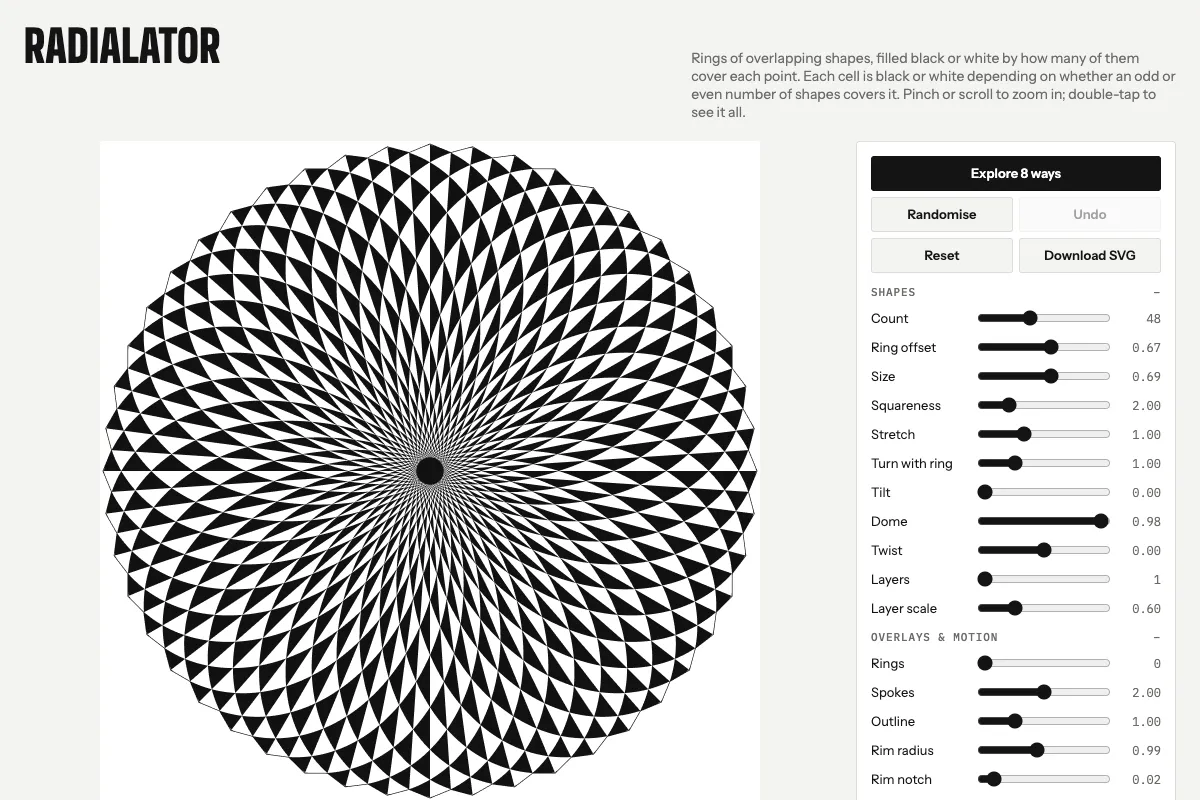
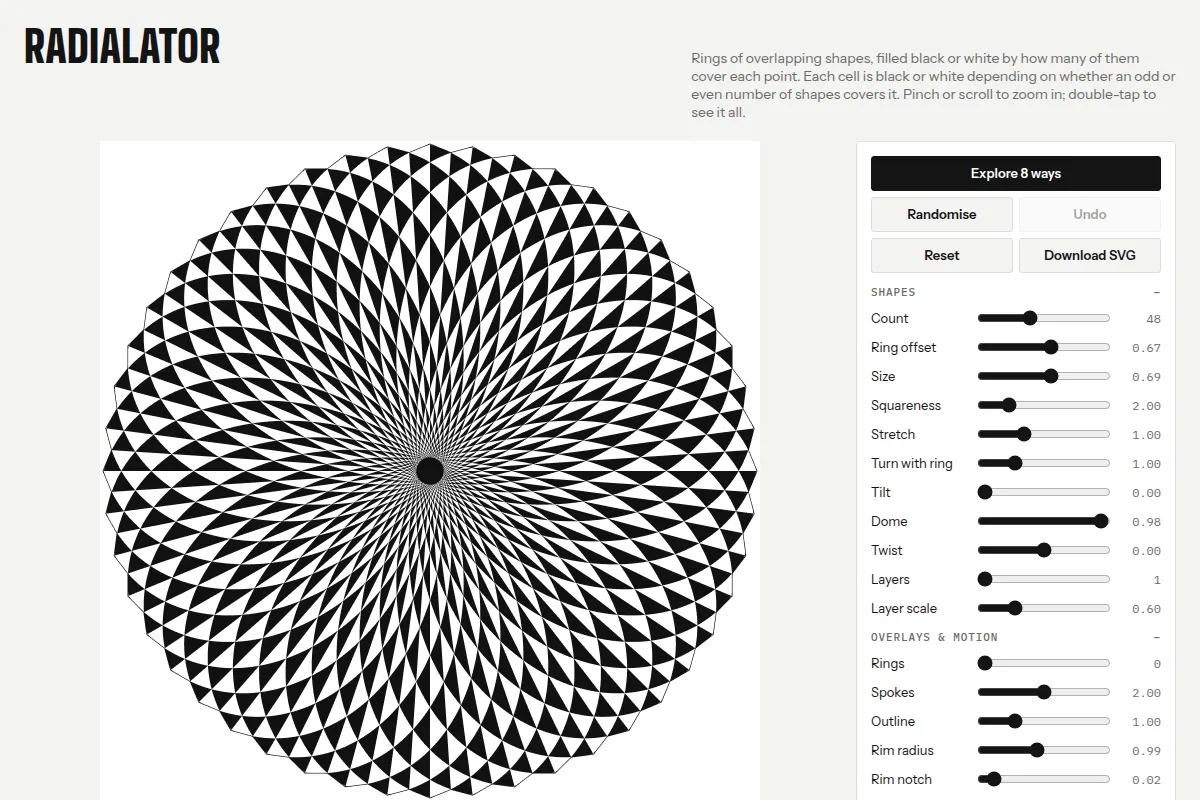
deploy: Jermolene/blog@e66649e83a537464c238b642009fd84891bfa148

diff --git a/toys/radialator/index.html b/toys/radialator/index.html
@@ -115,6 +115,9 @@ input[type=checkbox]{accent-color:var(--accent);margin:0}
       <div class="sel"><label for="invert">Colours</label><select id="invert"><option value="0">Odd = ink</option><option value="1">Odd = paper</option></select></div>
       <div class="sel"><label for="palette">Palette</label><select id="palette"></select></div>
     </div></details>
+    <details data-g="D"><summary class="lbl">Dots</summary><div class="ctrls" id="ctrlsD">
+      <div class="sel"><label for="dots">Dot layout</label><select id="dots"><option value="0">Off: solid</option><option value="1">Grid</option><option value="2">Hex</option><option value="3">Rings</option></select></div>
+    </div></details>
     <details><summary class="lbl">Display</summary><div class="ctrls">
       <label class="tick" for="showFps"><input type="checkbox" id="showFps"> Show frame rate</label>
     </div></details>
@@ -142,6 +145,10 @@ const SPEC=[
  {k:'notch',l:'Rim notch',min:0,max:.3,step:.0005,d:.0242,g:'B'},
  {k:'hub',l:'Hub',min:0,max:.3,step:.001,d:.042,g:'B'},
  {k:'speed',l:'Spin speed',min:-1,max:1,step:.01,d:0,g:'B'},
+ {k:'dotN',l:'Dots across',min:16,max:240,step:1,d:90,g:'D'},
+ {k:'dotSize',l:'Dot size',min:.3,max:1.1,step:.01,d:.9,g:'D'},
+ {k:'light',l:'Light',min:0,max:1,step:.01,d:0,g:'D'},
+ {k:'lightAng',l:'Light from',min:0,max:6.2832,step:.01,d:2.36,g:'D'},
 ];
 const PALETTES=[
  ['Ink on white','#111111','#ffffff'],
@@ -152,10 +159,10 @@ const PALETTES=[
  ['Sea and coral','#0f5257','#f6a38f'],
  ['Violet','#3a1a6b','#d9f0e4'],
 ];
-const DEFAULTS=Object.fromEntries(SPEC.map(s=>[s.k,s.d]));DEFAULTS.clip=3;DEFAULTS.invert=1;DEFAULTS.palette=0;
-// panel groups: sliders carry theirs in SPEC; the three selects make up group C
-const GROUPS={A:'Shapes',B:'Overlays & motion',C:'Colour & clip'},SELECTS=['clip','invert','palette'];
-const groupKeys=g=>g==='C'?SELECTS:SPEC.filter(s=>s.g===g).map(s=>s.k);
+const DEFAULTS=Object.fromEntries(SPEC.map(s=>[s.k,s.d]));DEFAULTS.clip=3;DEFAULTS.invert=1;DEFAULTS.palette=0;DEFAULTS.dots=0;
+// panel groups: sliders carry theirs in SPEC; the selects carry theirs here
+const GROUPS={A:'Shapes',B:'Overlays & motion',C:'Colour & clip',D:'Dots'},SELG={clip:'C',invert:'C',palette:'C',dots:'D'},SELECTS=Object.keys(SELG);
+const groupKeys=g=>[...SPEC.filter(s=>s.g===g).map(s=>s.k),...SELECTS.filter(k=>SELG[k]===g)];
 const allowed=new Set(Object.keys(GROUPS));
 let P={...DEFAULTS};const history=[];
 
@@ -165,6 +172,7 @@ const gl=glc.getContext('webgl',{preserveDrawingBuffer:true,antialias:false});
 const FS=`precision highp float;
 uniform vec2 uRes;uniform float uHub,uInv,uWarp,uRim,uNotch,uPx,uLine,uN,uD,uR,uP,uAsp,uSpin,uTilt,uTwist,uRings,uSectors,uLayers,uLS,uPhase,uExtent,uClip;
 uniform vec3 uInk,uPaper;uniform vec2 uPan;uniform float uZoom;
+uniform float uDots,uDotN,uDotSize,uLight,uLightAng;
 mat2 rot(float a){float c=cos(a),s=sin(a);return mat2(c,s,-s,c);}
 float sampleAt(vec2 p){
   vec2 p0=p;float rad0=length(p);
@@ -206,9 +214,30 @@ float sampleAt(vec2 p){
   if(uClip==2.&&rad0>uExtent)return 0.;
   return par;
 }
+// Dots: the nearest dot centre on a grid, a hex lattice, or rings that keep the pattern's N-fold symmetry (dotCentres() in JS matches)
+vec2 dotCentre(vec2 p,float h){
+  if(uDots<1.5)return (floor(p/h)+.5)*h;
+  if(uDots<2.5){vec2 s=vec2(h,h*1.7320508);vec2 a=(floor(p/s)+.5)*s;vec2 b=(floor((p-s*.5)/s)+.5)*s+s*.5;return dot(p-a,p-a)<dot(p-b,p-b)?a:b;}
+  float i=floor(length(p)/h+.5);if(i<.5)return vec2(0.);float rho=i*h;
+  float n=uN*max(1.,floor(6.2831853*rho/(h*uN)+.5));float st=6.2831853/n;float a=floor(atan(p.y,p.x)/st+.5)*st;
+  return rho*vec2(cos(a),sin(a));
+}
+// a dot's ink: the pattern's coverage around its centre, optionally lit like a dome (dotInk() in JS matches)
+float dotInk(vec2 c,float h){
+  float cov=0.;for(int i=-1;i<=1;i++)for(int j=-1;j<=1;j++)cov+=sampleAt(c+vec2(float(i),float(j))*h/3.);cov/=9.;
+  if(uLight>0.){vec2 q=c/uExtent;float z2=1.-dot(q,q);vec3 L=normalize(vec3(cos(uLightAng),sin(uLightAng),1.));
+    float lam=z2>0.?max(dot(vec3(q,sqrt(z2)),L),0.):0.;cov*=mix(1.,.15+.85*lam,uLight);}
+  return cov;
+}
 void main(){
   float m=min(uRes.x,uRes.y)*.5;float k=uExtent*1.0089/m/uZoom;
   vec2 f=gl_FragCoord.xy-uRes*.5;
+  if(uDots>.5){
+    float h=2.*uExtent/uDotN;vec2 w=f*k+uPan;vec2 c=dotCentre(w,h);
+    float r=.5*h*uDotSize*sqrt(dotInk(c,h));
+    float v=r>0.?1.-smoothstep(-.5*k,.5*k,length(w-c)-r):0.;
+    gl_FragColor=vec4(mix(uPaper,uInk,v),1.);return;
+  }
   float v=sampleAt((f+vec2(.125,.375))*k+uPan)+sampleAt((f+vec2(-.375,.125))*k+uPan)
          +sampleAt((f+vec2(-.125,-.375))*k+uPan)+sampleAt((f+vec2(.375,-.125))*k+uPan);
   gl_FragColor=vec4(mix(uPaper,uInk,v*.25),1.);
@@ -222,7 +251,7 @@ function initGL(){
   prog=gl.createProgram();gl.attachShader(prog,vs);gl.attachShader(prog,fs);gl.linkProgram(prog);gl.useProgram(prog);
   const b=gl.createBuffer();gl.bindBuffer(gl.ARRAY_BUFFER,b);gl.bufferData(gl.ARRAY_BUFFER,new Float32Array([-1,-1,3,-1,-1,3]),gl.STATIC_DRAW);
   const loc=gl.getAttribLocation(prog,'p');gl.enableVertexAttribArray(loc);gl.vertexAttribPointer(loc,2,gl.FLOAT,false,0,0);
-  'uRes uHub uInv uWarp uRim uNotch uPx uLine uN uD uR uP uAsp uSpin uTilt uTwist uRings uSectors uLayers uLS uPhase uExtent uClip uInk uPaper uPan uZoom'.split(' ').forEach(n=>U[n]=gl.getUniformLocation(prog,n));
+  'uRes uHub uInv uWarp uRim uNotch uPx uLine uN uD uR uP uAsp uSpin uTilt uTwist uRings uSectors uLayers uLS uPhase uExtent uClip uInk uPaper uPan uZoom uDots uDotN uDotSize uLight uLightAng'.split(' ').forEach(n=>U[n]=gl.getUniformLocation(prog,n));
 }
 function extent(p){
   if(p.clip==3)return p.rim;
@@ -238,6 +267,7 @@ function render(p,target,size,phase=0,view=null){
   gl.uniform1f(U.uN,p.count);gl.uniform1f(U.uD,p.offset);gl.uniform1f(U.uR,p.radius);gl.uniform1f(U.uP,p.shape);
   gl.uniform1f(U.uAsp,p.aspect);gl.uniform1f(U.uSpin,p.spin);gl.uniform1f(U.uTilt,p.tilt);gl.uniform1f(U.uTwist,p.twist);
   gl.uniform1f(U.uRings,p.rings);gl.uniform1f(U.uSectors,2*Math.round(p.spokes*p.count/2));gl.uniform1f(U.uLine,p.outline);gl.uniform1f(U.uRim,p.rim);gl.uniform1f(U.uWarp,p.dome);gl.uniform1f(U.uInv,p.invert);gl.uniform1f(U.uHub,p.hub);gl.uniform1f(U.uNotch,p.notch);gl.uniform1f(U.uPx,extent(p)*1.0089/(size*.5)*(size/1000));gl.uniform1f(U.uLayers,p.layers);gl.uniform1f(U.uLS,p.layerScale);
+  gl.uniform1f(U.uDots,p.dots);gl.uniform1f(U.uDotN,p.dotN);gl.uniform1f(U.uDotSize,p.dotSize);gl.uniform1f(U.uLight,p.light);gl.uniform1f(U.uLightAng,p.lightAng);
   gl.uniform1f(U.uPhase,phase);gl.uniform1f(U.uExtent,extent(p));gl.uniform1f(U.uClip,p.clip);
   const pal=PALETTES[p.palette];gl.uniform3fv(U.uInk,hex(pal[1]));gl.uniform3fv(U.uPaper,hex(pal[2]));
   gl.drawArrays(gl.TRIANGLES,0,3);
@@ -272,8 +302,9 @@ PALETTES.forEach((p,i)=>{const o=document.createElement('option');o.value=i;o.te
 $('clip').addEventListener('change',e=>{push();P.clip=+e.target.value;changed()});
 $('invert').addEventListener('change',e=>{push();P.invert=+e.target.value;changed()});
 $('palette').addEventListener('change',e=>{push();P.palette=+e.target.value;changed()});
+$('dots').addEventListener('change',e=>{push();P.dots=+e.target.value;changed()});
 function fmt(s){const v=P[s.k];$('o_'+s.k).textContent=s.step>=1?v:(Math.abs(v)>=10?v.toFixed(1):v.toFixed(2))}
-function syncUI(){SPEC.forEach(s=>{$('p_'+s.k).value=P[s.k];fmt(s)});$('clip').value=P.clip;$('invert').value=P.invert;$('palette').value=P.palette;$('undo').disabled=!history.length}
+function syncUI(){SPEC.forEach(s=>{$('p_'+s.k).value=P[s.k];fmt(s)});$('clip').value=P.clip;$('invert').value=P.invert;$('palette').value=P.palette;$('dots').value=P.dots;$('undo').disabled=!history.length}
 let lastPush=0;
 function push(){const now=performance.now();if(now-lastPush<400)return;lastPush=now;history.push({...P});if(history.length>100)history.shift();$('undo').disabled=false}
 
@@ -304,7 +335,7 @@ for(let i=0;i<9;i++){const c=document.createElement('div');c.className='cell';c.
   grid.appendChild(c);cells.push(c)}
 const snap=(s,v)=>{v=Math.min(s.max,Math.max(s.min,v));return s.step>=1?Math.round((v-s.min)/s.step)*s.step+s.min:+v.toFixed(4)};
 function mutate(p,str){
-  const q={...p};const keys=SPEC.filter(s=>s.k!=='speed'&&allowed.has(s.g)),col=allowed.has('C');
+  const q={...p};const keys=SPEC.filter(s=>s.k!=='speed'&&allowed.has(s.g)&&(s.g!=='D'||p.dots)),col=allowed.has('C');
   const n=keys.length?1+Math.floor(Math.random()*3):0;
   for(let j=0;j<n;j++){const s=keys[Math.floor(Math.random()*keys.length)];
     const span=s.max-s.min;let dv=(Math.random()*2-1)*str*span;
@@ -385,7 +416,32 @@ $('reset').addEventListener('click',()=>{lastPush=0;push();P={...DEFAULTS};phase
 $('undo').addEventListener('click',()=>{if(!history.length)return;P=history.pop();syncUI();changed()});
 
 // --- SVG export: same geometry as the shader, as one even-odd path ---
+// Dots: the same centres and ink as the shader's dotCentre()/dotInk(), with coverage read back from a solid render
+function buildDotsSVG(p,ph){
+  const E=extent(p),V=E*1.0089,K=1000/V,f=v=>(v*K).toFixed(2),h=2*E/p.dotN,S=2048,kp=V/(S/2);
+  render({...p,dots:0},null,S,ph);const px=new Uint8Array(S*S*4);gl.readPixels(0,0,S,S,gl.RGBA,gl.UNSIGNED_BYTE,px);
+  const pal=PALETTES[p.palette],ink=hex(pal[1]),paper=hex(pal[2]);
+  let ch=0;for(let c=1;c<3;c++)if(Math.abs(ink[c]-paper[c])>Math.abs(ink[ch]-paper[ch]))ch=c;
+  const at=(x,y)=>{const i=Math.min(S-1,Math.max(0,Math.floor(x/kp+S/2))),j=Math.min(S-1,Math.max(0,Math.floor(y/kp+S/2)));
+    return Math.min(1,Math.max(0,(px[(j*S+i)*4+ch]/255-paper[ch])/(ink[ch]-paper[ch])))};
+  const L=[Math.cos(p.lightAng),Math.sin(p.lightAng),1],ln=Math.hypot(...L);
+  const dotInk=(x,y)=>{let cov=0;for(let i=-1;i<=1;i++)for(let j=-1;j<=1;j++)cov+=at(x+i*h/3,y+j*h/3);cov/=9;
+    if(p.light>0){const qx=x/E,qy=y/E,z2=1-qx*qx-qy*qy,lam=z2>0?Math.max((qx*L[0]+qy*L[1]+Math.sqrt(z2))/ln,0):0;cov*=1+(.15+.85*lam-1)*p.light}
+    return cov};
+  const cs=[];
+  if(p.dots==1){const n=Math.ceil(V/h);for(let i=-n;i<n;i++)for(let j=-n;j<n;j++)cs.push([(i+.5)*h,(j+.5)*h])}
+  else if(p.dots==2){const sy=h*Math.sqrt(3),n=Math.ceil(V/h)+1,m=Math.ceil(V/sy)+1;
+    for(let i=-n;i<n;i++)for(let j=-m;j<m;j++){cs.push([(i+.5)*h,(j+.5)*sy]);cs.push([(i+1)*h,(j+1)*sy])}}
+  else{cs.push([0,0]);for(let i=1;i*h<V*1.42;i++){const rho=i*h,n=p.count*Math.max(1,Math.round(2*Math.PI*rho/(h*p.count)));
+    for(let j=0;j<n;j++)cs.push([rho*Math.cos(2*Math.PI*j/n),rho*Math.sin(2*Math.PI*j/n)])}}
+  let d='';
+  for(const [x,y] of cs){if(Math.abs(x)>V+h||Math.abs(y)>V+h)continue;const r=.5*h*p.dotSize*Math.sqrt(dotInk(x,y));
+    if(r*K<.05)continue;d+=`M${f(x-r)} ${f(-y)}a${f(r)} ${f(r)} 0 1 0 ${f(2*r)} 0a${f(r)} ${f(r)} 0 1 0 ${f(-2*r)} 0`}
+  drawMain();
+  return `<?xml version="1.0" encoding="UTF-8"?>\n<svg xmlns="http://www.w3.org/2000/svg" viewBox="-1000 -1000 2000 2000" width="2000" height="2000">\n<rect x="-1000" y="-1000" width="2000" height="2000" fill="${pal[2]}"/>\n<path fill="${pal[1]}" d="${d}"/>\n</svg>\n`;
+}
 function buildSVG(p,ph){
+  if(p.dots)return buildDotsSVG(p,ph);
   const E=extent(p),V=E*1.0089,K=1000/V,w=p.dome,useW=w>.001,aw=useW?Math.asin(w):1;
   const f=v=>(v*K).toFixed(2);
   const rhoMax=useW?E*(Math.PI/2)/aw:V*1.5;

diff --git a/toys/spotty-sphericle/index.html b/toys/spotty-sphericle/index.html
@@ -188,10 +188,11 @@ const DEF = {
   shape:'circle', size:0.82, sizeCurve:0.8, cutoff:0.03, fore:1, mode:'size', exportPx:'2048',
   bg:'#000000', colorMode:'solid', lit:'#ffffff', shade:'#000000', palette:'rainbow', hueSat:0.9, hueLight:0.6,
   c1:'#ff3e8a', c2:'#ffb347', c3:'#3ddcff', c4:'#7a4dff', custStops:3,
-  colorBy:'longitude', arms:21, repeats:1, offset:0, mirror:false, bands:0, drift:0, shadeMix:0.5, invert:false
+  colorBy:'longitude', arms:21, repeats:1, offset:0, mirror:false, bands:0, drift:0, shadeMix:0.5, invert:false,
+  pat:'none', patN:16, patOff:0.67, patR:0.69, patSq:2, patTurn:1, patTwist:0, patCover:0.6, patMix:1, patInv:false
 };
 
-const isCloud = s => s.form==='cloud', hasRipple = s => s.ripple!=='none';
+const isCloud = s => s.form==='cloud', hasRipple = s => s.ripple!=='none', hasPat = s => s.pat!=='none';
 const SCHEMA = [
  {sec:'Form', open:true, items:[
   {k:'form', type:'select', label:'Form', opts:{sphere:'Sphere',egg:'Egg',cube:'Cube',tetra:'Tetrahedron',octa:'Octahedron',dodeca:'Dodecahedron',icosa:'Icosahedron',cylinder:'Cylinder',cone:'Cone',torus:'Torus (doughnut)',drop:'Water drop',cloud:'Cloud'}},
@@ -285,6 +286,18 @@ const SCHEMA = [
   {k:'shadeMix', label:'Shade by light', min:0, max:1, step:0.01, rr:[0,0.9], show:s=>s.colorMode==='palette', tip:'Blends palette colours towards the shadow colour on the dark side'},
   {k:'invert', type:'check', label:'Invert light (shadows get big dots)'},
  ]},
+ {sec:'Pattern', items:[
+  {k:'pat', type:'select', label:'Surface pattern', opts:{none:'None',radialator:'Radialator ring'}, norand:true, tip:'Overlapping shapes on a ring, centred on the pole: dots are kept where an odd number of them overlap, as in Radialator'},
+  {k:'patN', label:'Shapes', min:3, max:60, step:1, rr:[5,30], show:hasPat},
+  {k:'patOff', label:'Ring offset', min:0, max:1.2, step:0.005, rr:[0.2,0.9], show:hasPat},
+  {k:'patR', label:'Shape size', min:0.05, max:1.2, step:0.005, rr:[0.3,0.9], show:hasPat},
+  {k:'patSq', label:'Squareness', min:0.5, max:8, step:0.05, rr:[1,4], show:hasPat},
+  {k:'patTurn', label:'Turn with ring', min:0, max:4, step:0.01, rr:[0,2], show:hasPat},
+  {k:'patTwist', label:'Twist', min:-6, max:6, step:0.05, rr:[0,0], show:hasPat},
+  {k:'patCover', label:'Reach (pole to pole)', min:0.1, max:1, step:0.01, rr:[0.4,1], show:hasPat, tip:'How far from the pole the ring reaches; 1 wraps it right round to the other pole'},
+  {k:'patMix', label:'Strength', min:0, max:1, step:0.01, rr:[0.7,1], show:hasPat, tip:'At 1 dots outside the pattern vanish; lower keeps them, smaller'},
+  {k:'patInv', type:'check', label:'Invert pattern', show:hasPat},
+ ]},
  {sec:'Download', items:[
   {k:'exportPx', type:'select', label:'PNG long edge', opts:{'1024':'1024 px','2048':'2048 px','4096':'4096 px'}, norand:true},
  ]},
@@ -303,6 +316,7 @@ const PRESETS = {
   'Disco': {dist:'latlong', count:5000, shape:'square', spec:1.3, shin:60, ambient:0.06, size:0.92, sizeCurve:0.45, lightAz:120, lightEl:40, tiltX:18, tiltZ:-12, yaw:20, bg:'#0a0b10', lit:'#eef1f8', colorMode:'shade', shade:'#33405c', cutoff:0.02, fore:1, radius:0.4},
   'Newsprint': {dist:'fib', count:11000, invert:true, bg:'#f1ece1', lit:'#17130e', ambient:0.04, cutoff:0.05, gamma:0.9, lightAz:140, lightEl:35, radius:0.4, tiltX:60, tiltZ:-20},
   'Crescent': {dist:'fib', count:16000, shade:'#465068', lit:'#f3efe4', bg:'#04050a', colorMode:'shade', wrap:0.15, lightAz:200, lightEl:-5, size:0.85, cutoff:0.02, radius:0.42, tiltX:90, tiltZ:0},
+  'Op art sphere': {pat:'radialator', patN:12, patOff:0.6, patR:0.62, patCover:0.85, count:16000, size:0.95, sizeCurve:0.5, ambient:0.15, tiltX:70, tiltZ:15, spin:4, bg:'#f4f1ea', lit:'#141414'},
   'Hatching': {dist:'rings', count:5200, shape:'line', size:1.25, sizeCurve:0.8, bg:'#121211', lit:'#e9e3d4', stagger:0.5, tiltX:70, tiltZ:20, radius:0.4},
   'Rim': {lightEl:-35, lightAz:90, rim:0.9, rimPow:2.4, ambient:0, spin:12, orbit:20, lit:'#a7dcff', bg:'#000000', radius:0.4, cutoff:0.03},
   'Dice': {form:'cube', sharp:14, dist:'cube', count:6000, shape:'square', size:0.9, colorMode:'shade', lit:'#f4f1ea', shade:'#3a3d4a', bg:'#0b0c10', ambient:0.2, wrap:0.3, lightAz:150, lightEl:50, spec:0.5, shin:40, tiltX:30, tiltZ:35, yaw:20, spin:6, radius:0.4},
@@ -539,6 +553,29 @@ function makePen(svg){
 /* ---------- renderer ---------- */
 const LEVELS = 48;
 let spinAng = 0, colourPhase = 0, animT = 0, lightOff = 0, lastStat = '';
+// Surface pattern: Radialator's parity (odd = 1) at each dot's place on the unit sphere, mapped out from the pole; cached per point set
+let PATC = {P:null, key:'', v:null};
+function patternValues(s, P){
+  const key = [s.patN,s.patOff,s.patR,s.patSq,s.patTurn,s.patTwist,s.patCover].join('|');
+  if (PATC.P===P && PATC.key===key) return PATC.v;
+  const N=Math.max(3,s.patN|0), reach=s.patSq>2?Math.pow(2,.5-1/s.patSq):1, E=Math.max(.05, s.patOff+s.patR*reach);
+  const ca=[],sa=[],cr=[],sr=[];
+  for (let k=0;k<N;k++){ const a=2*Math.PI*k/N; ca.push(Math.cos(a)); sa.push(Math.sin(a)); cr.push(Math.cos(a*s.patTurn)); sr.push(Math.sin(a*s.patTurn)); }
+  const v = new Uint8Array(P.n);
+  for (let i=0;i<P.n;i++){
+    const rho = Math.acos(Math.max(-1,Math.min(1,P.y[i])))/Math.PI/s.patCover*E;
+    if (rho>E) continue;
+    const th = Math.atan2(P.z[i],P.x[i]) + s.patTwist*rho;
+    const x=rho*Math.cos(th), y=rho*Math.sin(th);
+    let c=0;
+    for (let k=0;k<N;k++){
+      const dx=x-s.patOff*ca[k], dy=y-s.patOff*sa[k], u=Math.abs(dx*cr[k]+dy*sr[k])/s.patR, w=Math.abs(dy*cr[k]-dx*sr[k])/s.patR;
+      if (Math.pow(u,s.patSq)+Math.pow(w,s.patSq)<1) c++;
+    }
+    v[i]=c&1;
+  }
+  PATC = {P, key, v}; return v;
+}
 function render(ctx, W, H, svgMode, st, an){
   st = st || S;
   const TAU = Math.PI*2, s=st, P=genPoints(st), G=genGeom(st,P,animT), A = an || {spin:spinAng, light:lightOff, colour:colourPhase};
@@ -558,6 +595,7 @@ function render(ctx, W, H, svgMode, st, an){
   const pens = []; const penFor = k => pens[k] || (pens[k]=makePen(svgMode));
   let drawn = 0;
   const shape = s.shape, fore = s.fore;
+  const PV = s.pat!=='none' && s.patMix>0 ? patternValues(s,P) : null, pinv = s.patInv?1:0;
   const GX=G?G.px:P.x, GY=G?G.py:P.y, GZ=G?G.pz:P.z, NX=G?G.nx:P.x, NY=G?G.ny:P.y, NZ=G?G.nz:P.z, TX=G?G.tx:P.tx, TY=G?G.ty:P.ty, TZ=G?G.tz:P.tz, GJ=G?G.j:null;
   // rotate dot i into view: position q, normal n, perspective scale and screen position; false if it faces away
   let qx,qy,qz,nx,ny,nz,sc,sx,sy;
@@ -602,6 +640,7 @@ function render(ctx, W, H, svgMode, st, an){
     if (b < s.cutoff || b<=0) continue;
     let r = base*P.w[i]*sc*(GJ?GJ[i]:1);
     if (s.mode!=='opacity') r *= Math.pow(b, s.sizeCurve);
+    if (PV && (PV[i]^pinv)===0) r *= 1-s.patMix;
     if (pt!=='none' && s.pulse>0){
       let ph;
       if (pt==='latitude') ph = TAU*pw*Math.acos(py<-1?-1:py>1?1:py)/Math.PI;

diff --git a/toys/sw.js b/toys/sw.js
@@ -25,7 +25,7 @@ responses can still be stored.
 "use strict";
 
 self.PRECACHE = {
-	"version": "a864a45a60c5fa47",
+	"version": "f3bb92721d54712e",
 	"urls": [
 		"/toys/",
 		"/toys/animal-island/apple-touch-icon.png",
